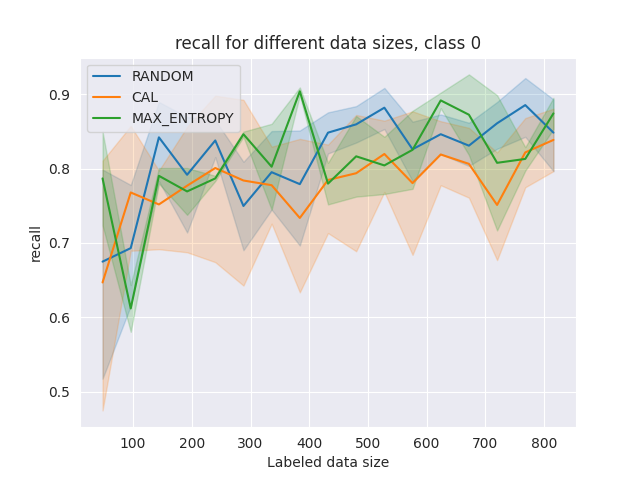
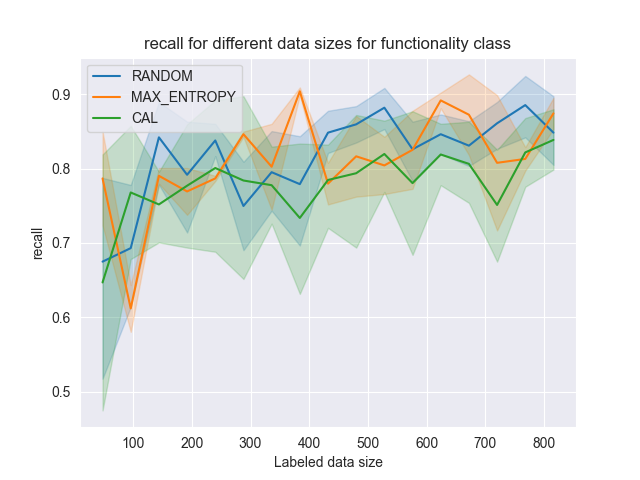
add class name to per class plots

diff --git a/src/active_learning/visualisation.py b/src/active_learning/visualisation.py
@@ -86,7 +86,7 @@ def cold_vs_warm_start(strategy: str, config):
       plt.title('F1 score for different data sizes')
       plt.savefig(os.path.join(config.results_dir, FIGURES_DIR, f'{strategy}_f1_score.png'))
 
-def plot_metrics_for_classes(config, metrics, classes, strategies, savedir='class_results'):
+def plot_metrics_for_classes(config, metrics, classes, strategies, class_names, savedir='class_results'):
   for class_index in classes:
     for metric in metrics:
       plt.figure()
@@ -100,5 +100,5 @@ def plot_metrics_for_classes(config, metrics, classes, strategies, savedir='clas
           plt.legend()
           plt.xlabel('Labeled data size')
           plt.ylabel(metric)
-          plt.title(f'{metric} for different data sizes, class {class_index}')
+          plt.title(f'{metric} for different data sizes for {class_names[class_index]} class')
       plt.savefig(os.path.join(config.results_dir, FIGURES_DIR, savedir, f'{metric}_class{class_index}.png'))
